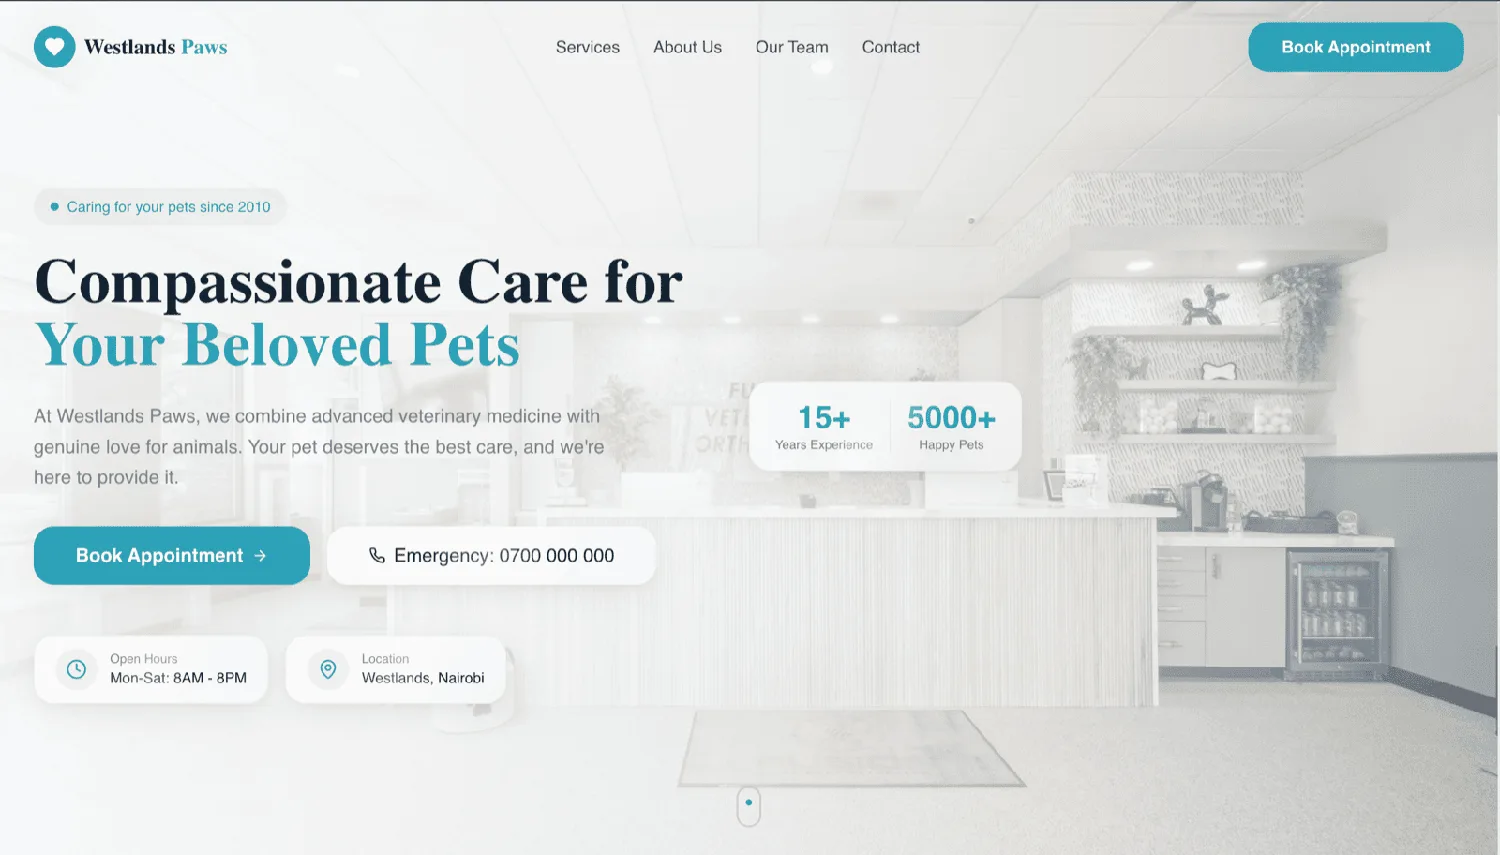
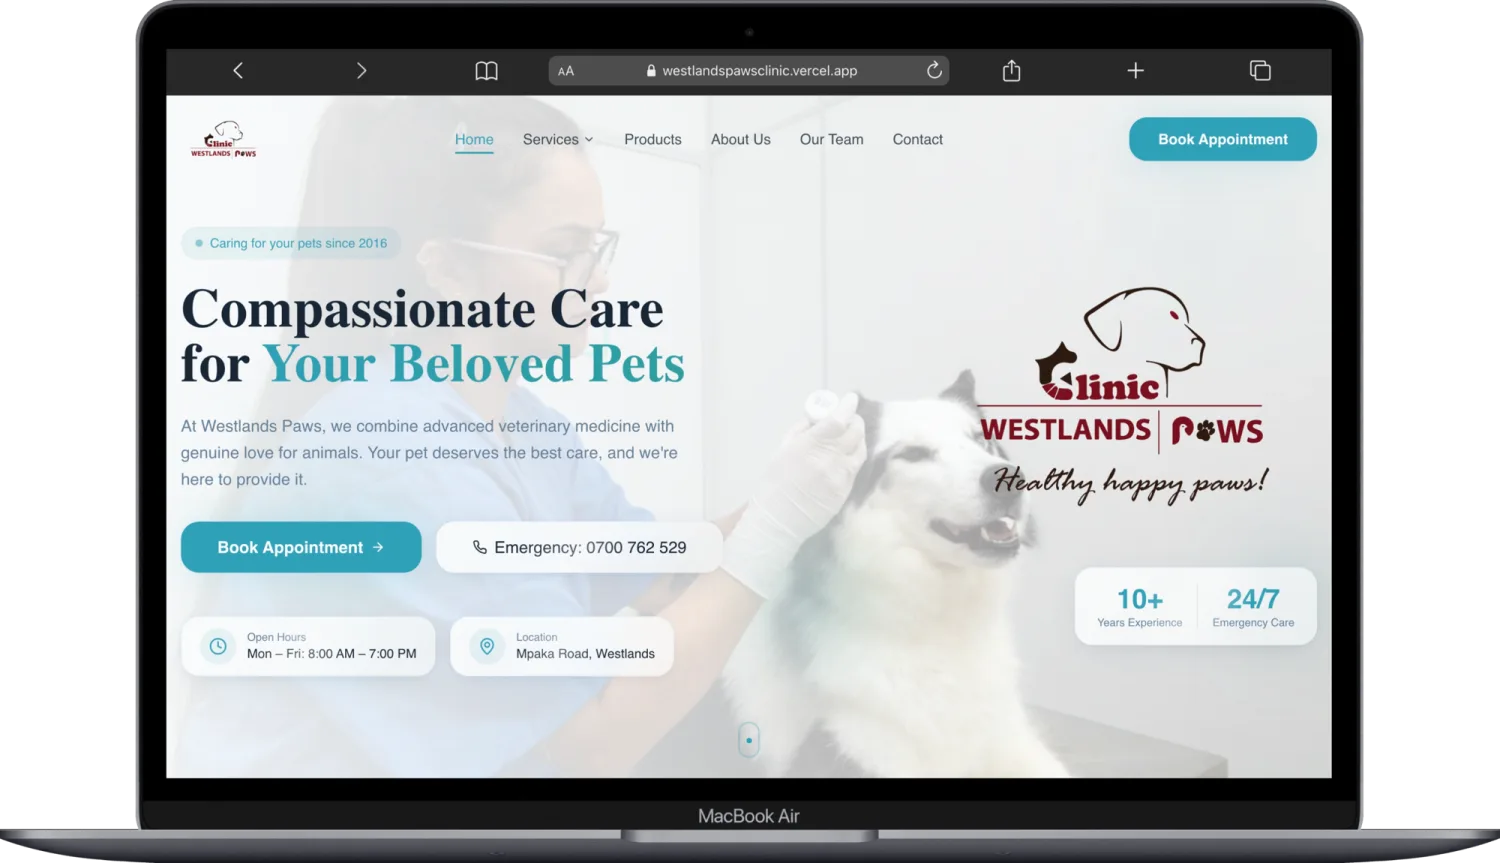
Projects: rebrand Crystal Vets to SanaPets, refresh Westlands Paws
Crystal Vets is now SanaPets Vet Clinic at sanapetsveterinaryclinic.com:
new name, owner, URL and five current screenshots (three mobile, two
desktop) replacing the three old ones. The existing icon was already the
mark the live site serves, so it is only renamed. Description rewritten
around what the site actually does — WhatsApp-backed booking, per-service
pages, filtered product shop with cart-to-WhatsApp ordering.

Westlands Paws Clinic gets four current screenshots in place of two, an
app icon from the site's own favicon, a url child whose name matches its
href, and a description covering the emergency-first homepage, the
indexed services page with KSh pricing, and the booking flow.

Claude-Session: https://claude.ai/code/session_01NRHmTXKmKDfSEnWzS8eXfZ

diff --git a/src/constants/index.js b/src/constants/index.js
@@ -122,7 +122,7 @@ const blogPosts = [
         date: "Aug 28, 2025",
         title: "The Ultimate Guide to Mastering Three.js for 3D Development",
         image: "/images/blog2.png",
-        link: "https://crystalvets.com/#services",
+        link: "https://www.sanapetsveterinaryclinic.com/services",
     },
     {
         id: 3,
@@ -562,10 +562,10 @@ const WORK_LOCATION = {
             ],
         },
 
-        // Westland Paws Clinic Project
+        // Westlands Paws Clinic Project
         {
             id: 8,
-            name: "Westland-Paws Clinic Website",
+            name: "Westlands Paws Clinic Website",
             icon: "/images/folder.png",
             kind: "folder",
             position: "top-185 left-6",
@@ -578,21 +578,21 @@ const WORK_LOCATION = {
                     fileType: "txt",
                     position: "top-8 left-20",
                     description: [
-                        "Westland Paws Clinic is a veterinary clinic that provides exceptional care for pets. ",
-                        "The website is designed to showcase their services, facilities, and team members, ",
-                        "while also providing easy access to contact information and appointment scheduling.",
-                        "It features a user-friendly interface, clear navigation, and high-quality images showcasing ",
-                        "the clinic's amenities."
+                        "Westlands Paws Clinic is a Nairobi veterinary practice on Mpaka Road, Westlands — caring for pets since 2016, with 24/7 emergency cover.",
+                        "The homepage leads with the two things an owner actually needs at that moment: a booking button and the emergency line, backed by opening hours and the clinic's location.",
+                        "Services live on one page with a sticky 'on this page' index — general checkups, vaccinations, parasite control, dental care, diagnosis & treatment, surgery, emergency care and grooming — each with indicative KSh pricing and a plain account of how the clinic approaches the work.",
+                        "Booking is a single form (owner, pet, pet type, phone, preferred date and time, reason for visit) confirmed over WhatsApp, alongside a what-to-expect panel and the emergency number for cases that cannot wait.",
+                        "Also covers a product shop, about, team profiles and contact. Built with React and deployed on Vercel; the desktop nav collapses to a mobile drawer with the same content intact.",
                     ],
                 },
                 {
                     id: 802,
-                    name: "westlands-paws.co.ke",
+                    name: "westlandspawsclinic.vercel.app",
                     icon: "/images/safari.png",
                     kind: "file",
                     fileType: "url",
                     href: "https://westlandspawsclinic.vercel.app/",
-                    position: "top-76 right-38",
+                    position: "top-4 right-20",
                 },
                 {
                     id: 803,
@@ -600,7 +600,7 @@ const WORK_LOCATION = {
                     icon: "/images/image.png",
                     kind: "file",
                     fileType: "img",
-                    position: "top-52 left-12",
+                    position: "top-44 left-16",
                     imageUrl: "/images/westlandspaws-1.webp",
                 },
                 {
@@ -609,8 +609,26 @@ const WORK_LOCATION = {
                     icon: "/images/image.png",
                     kind: "file",
                     fileType: "img",
-                    position: "top-24 right-16",
+                    position: "top-44 right-16",
                     imageUrl: "/images/westlandspaws-2.webp",
+                },
+                {
+                    id: 805,
+                    name: "westlandspaws-3.png",
+                    icon: "/images/image.png",
+                    kind: "file",
+                    fileType: "img",
+                    position: "top-72 left-16",
+                    imageUrl: "/images/westlandspaws-3.webp",
+                },
+                {
+                    id: 806,
+                    name: "westlandspaws-4.png",
+                    icon: "/images/image.png",
+                    kind: "file",
+                    fileType: "img",
+                    position: "top-72 right-16",
+                    imageUrl: "/images/westlandspaws-4.webp",
                 },
             ],
         },
@@ -746,61 +764,82 @@ const WORK_LOCATION = {
         },
 
 
-        // Crystal Vets Project
+        // SanaPets Vet Clinic Project
         {
             id: 11,
-            name: "Crystal Vets Website",
+            name: "SanaPets Vet Clinic Website",
             icon: "/images/folder.png",
             kind: "folder",
             position: "top-92 right-80",
             children: [
                 {
                     id: 1101,
-                    name: "Crystal Vets.txt",
+                    name: "SanaPets Vet Clinic.txt",
                     icon: "/images/txt.png",
                     kind: "file",
                     fileType: "txt",
                     position: "top-16 right-12",
                     description: [
-                        "Crystal Vets is a premier veterinary clinic dedicated to providing exceptional care for your",
-                        " beloved pets. Located in Nairobi, Kenya, we offer a wide range of services including wellness exams, vaccinations, surgical procedures, dental care, and emergency services. Our team of experienced veterinarians and compassionate staff are committed to ensuring the health and well-being of your furry family members. At Crystal Vets, we believe in building lasting relationships with our clients and their pets through personalized care and attention.",
+                        "SanaPets Vet Clinic is a Nairobi veterinary practice offering affordable, professional care for pets across the city and its environs.",
+                        "The site puts booking first: a WhatsApp-backed appointment form collects the owner's details alongside the pet's name, type and age, so an enquiry reaches the clinic ready to act on instead of as a bare phone call.",
+                        "Every service has its own page — dental check-ups, dental surgery, vaccinations, local and international travel paperwork, deworming, tick and flea control, and pet nutrition advice — each spelling out what the appointment covers and how long it takes.",
+                        "A filterable product shop (parasite control, supplements, cat care, identification) adds a cart that turns a selection into a single WhatsApp order, alongside a gallery, blog and contact section.",
+                        "Built as a responsive React site: the same content carries from a full desktop nav down to a mobile drawer with the service list nested inside it.",
                     ],
                 },
                 {
                     id: 1102,
-                    name: "crystalvets.com",
+                    name: "sanapetsveterinaryclinic.com",
                     icon: "/images/safari.png",
                     kind: "file",
                     fileType: "url",
-                    href: "https://crystalvets.com/",
+                    href: "https://www.sanapetsveterinaryclinic.com/",
                     position: "top-4 left-20",
                 },
                 {
                     id: 1103,
-                    name: "image-1.png",
+                    name: "sanapets-1.png",
                     icon: "/images/image.png",
                     kind: "file",
                     fileType: "img",
                     position: "top-44 left-16",
-                    imageUrl: "/images/cvets-1.webp",
+                    imageUrl: "/images/sanapets-1.webp",
                 },
                 {
                     id: 1104,
-                    name: "image-2.png",
+                    name: "sanapets-2.png",
                     icon: "/images/image.png",
                     kind: "file",
                     fileType: "img",
-                    position: "top-60 right-24",
-                    imageUrl: "/images/cvets-2.webp",
+                    position: "top-44 right-16",
+                    imageUrl: "/images/sanapets-2.webp",
                 },
                 {
                     id: 1105,
-                    name: "image-3.png",
+                    name: "sanapets-3.png",
                     icon: "/images/image.png",
                     kind: "file",
                     fileType: "img",
-                    position: "top-80 left-24",
-                    imageUrl: "/images/cvets-3.webp",
+                    position: "top-72 left-16",
+                    imageUrl: "/images/sanapets-3.webp",
+                },
+                {
+                    id: 1106,
+                    name: "sanapets-4.png",
+                    icon: "/images/image.png",
+                    kind: "file",
+                    fileType: "img",
+                    position: "top-72 right-16",
+                    imageUrl: "/images/sanapets-4.webp",
+                },
+                {
+                    id: 1107,
+                    name: "sanapets-5.png",
+                    icon: "/images/image.png",
+                    kind: "file",
+                    fileType: "img",
+                    position: "top-96 left-16",
+                    imageUrl: "/images/sanapets-5.webp",
                 },
             ],
         },
@@ -997,14 +1036,15 @@ const WORK_LOCATION2 = {
             ],
         },
 
-        // Westland Paws Clinic Project
+        // Westlands Paws Clinic Project
         {
             id: 8,
-            name: "Westland-Paws Clinic Website",
+            name: "Westlands Paws Clinic Website",
             icon: "/images/folder.png",
             kind: "folder",
             position: "top-85 left-5",
-            owner: "Westland Paws Clinic",
+            owner: "Westlands Paws Clinic",
+            appIcon: "/images/westlandspaws-icon.webp",
             desktop_home: true,
             project_type: "web_app",
             children: [
@@ -1016,21 +1056,21 @@ const WORK_LOCATION2 = {
                     fileType: "txt",
                     position: "top-8 left-20",
                     description: [
-                        "Westland Paws Clinic is a veterinary clinic that provides exceptional care for pets. ",
-                        "The website is designed to showcase their services, facilities, and team members, ",
-                        "while also providing easy access to contact information and appointment scheduling.",
-                        "It features a user-friendly interface, clear navigation, and high-quality images showcasing ",
-                        "the clinic's amenities."
+                        "Westlands Paws Clinic is a Nairobi veterinary practice on Mpaka Road, Westlands — caring for pets since 2016, with 24/7 emergency cover.",
+                        "The homepage leads with the two things an owner actually needs at that moment: a booking button and the emergency line, backed by opening hours and the clinic's location.",
+                        "Services live on one page with a sticky 'on this page' index — general checkups, vaccinations, parasite control, dental care, diagnosis & treatment, surgery, emergency care and grooming — each with indicative KSh pricing and a plain account of how the clinic approaches the work.",
+                        "Booking is a single form (owner, pet, pet type, phone, preferred date and time, reason for visit) confirmed over WhatsApp, alongside a what-to-expect panel and the emergency number for cases that cannot wait.",
+                        "Also covers a product shop, about, team profiles and contact. Built with React and deployed on Vercel; the desktop nav collapses to a mobile drawer with the same content intact.",
                     ],
                 },
                 {
                     id: 802,
-                    name: "westlands-paws.co.ke",
+                    name: "westlandspawsclinic.vercel.app",
                     icon: "/images/safari.png",
                     kind: "file",
                     fileType: "url",
                     href: "https://westlandspawsclinic.vercel.app/",
-                    position: "top-76 right-38",
+                    position: "top-4 right-20",
                 },
                 {
                     id: 803,
@@ -1038,7 +1078,7 @@ const WORK_LOCATION2 = {
                     icon: "/images/image.png",
                     kind: "file",
                     fileType: "img",
-                    position: "top-52 left-12",
+                    position: "top-44 left-16",
                     imageUrl: "/images/westlandspaws-1.webp",
                 },
                 {
@@ -1047,8 +1087,26 @@ const WORK_LOCATION2 = {
                     icon: "/images/image.png",
                     kind: "file",
                     fileType: "img",
-                    position: "top-24 right-16",
+                    position: "top-44 right-16",
                     imageUrl: "/images/westlandspaws-2.webp",
+                },
+                {
+                    id: 805,
+                    name: "westlandspaws-3.png",
+                    icon: "/images/image.png",
+                    kind: "file",
+                    fileType: "img",
+                    position: "top-72 left-16",
+                    imageUrl: "/images/westlandspaws-3.webp",
+                },
+                {
+                    id: 806,
+                    name: "westlandspaws-4.png",
+                    icon: "/images/image.png",
+                    kind: "file",
+                    fileType: "img",
+                    position: "top-72 right-16",
+                    imageUrl: "/images/westlandspaws-4.webp",
                 },
             ],
         },
@@ -1192,65 +1250,86 @@ const WORK_LOCATION2 = {
         },
 
 
-        // Crystal Vets Project
+        // SanaPets Vet Clinic Project
         {
             id: 11,
-            name: "Crystal Vets Website Project",
+            name: "SanaPets Vet Clinic Website Project",
             icon: "/images/folder.png",
             kind: "folder",
             position: "top-72 left-70",
-            owner: "Crystal Vets",
-            appIcon: "/images/crystalvets-icon.webp",
+            owner: "SanaPets Vet Clinic",
+            appIcon: "/images/sanapets-icon.webp",
             desktop_home: true,
             project_type: "web_app",
             children: [
                 {
                     id: 1101,
-                    name: "Crystal Vets.txt",
+                    name: "SanaPets Vet Clinic.txt",
                     icon: "/images/txt.png",
                     kind: "file",
                     fileType: "txt",
                     position: "top-16 right-12",
                     description: [
-                        "Crystal Vets is a premier veterinary clinic dedicated to providing exceptional care for your",
-                        " beloved pets. Located in Nairobi, Kenya, we offer a wide range of services including wellness exams, vaccinations, surgical procedures, dental care, and emergency services. Our team of experienced veterinarians and compassionate staff are committed to ensuring the health and well-being of your furry family members. At Crystal Vets, we believe in building lasting relationships with our clients and their pets through personalized care and attention.",
+                        "SanaPets Vet Clinic is a Nairobi veterinary practice offering affordable, professional care for pets across the city and its environs.",
+                        "The site puts booking first: a WhatsApp-backed appointment form collects the owner's details alongside the pet's name, type and age, so an enquiry reaches the clinic ready to act on instead of as a bare phone call.",
+                        "Every service has its own page — dental check-ups, dental surgery, vaccinations, local and international travel paperwork, deworming, tick and flea control, and pet nutrition advice — each spelling out what the appointment covers and how long it takes.",
+                        "A filterable product shop (parasite control, supplements, cat care, identification) adds a cart that turns a selection into a single WhatsApp order, alongside a gallery, blog and contact section.",
+                        "Built as a responsive React site: the same content carries from a full desktop nav down to a mobile drawer with the service list nested inside it.",
                     ],
                 },
                 {
                     id: 1102,
-                    name: "crystalvets.com",
+                    name: "sanapetsveterinaryclinic.com",
                     icon: "/images/safari.png",
                     kind: "file",
                     fileType: "url",
-                    href: "https://crystalvets.com/",
+                    href: "https://www.sanapetsveterinaryclinic.com/",
                     position: "top-4 left-20",
                 },
                 {
                     id: 1103,
-                    name: "image-1.png",
+                    name: "sanapets-1.png",
                     icon: "/images/image.png",
                     kind: "file",
                     fileType: "img",
                     position: "top-44 left-16",
-                    imageUrl: "/images/cvets-1.webp",
+                    imageUrl: "/images/sanapets-1.webp",
                 },
                 {
                     id: 1104,
-                    name: "image-2.png",
+                    name: "sanapets-2.png",
                     icon: "/images/image.png",
                     kind: "file",
                     fileType: "img",
-                    position: "top-60 right-24",
-                    imageUrl: "/images/cvets-2.webp",
+                    position: "top-44 right-16",
+                    imageUrl: "/images/sanapets-2.webp",
                 },
                 {
                     id: 1105,
-                    name: "image-3.png",
+                    name: "sanapets-3.png",
                     icon: "/images/image.png",
                     kind: "file",
                     fileType: "img",
-                    position: "top-80 left-24",
-                    imageUrl: "/images/cvets-3.webp",
+                    position: "top-72 left-16",
+                    imageUrl: "/images/sanapets-3.webp",
+                },
+                {
+                    id: 1106,
+                    name: "sanapets-4.png",
+                    icon: "/images/image.png",
+                    kind: "file",
+                    fileType: "img",
+                    position: "top-72 right-16",
+                    imageUrl: "/images/sanapets-4.webp",
+                },
+                {
+                    id: 1107,
+                    name: "sanapets-5.png",
+                    icon: "/images/image.png",
+                    kind: "file",
+                    fileType: "img",
+                    position: "top-96 left-16",
+                    imageUrl: "/images/sanapets-5.webp",
                 },
             ],
         },

diff --git a/src/ipados/HomeScreen.jsx b/src/ipados/HomeScreen.jsx
@@ -8,7 +8,7 @@ import {ClockWidget, WeatherWidget, FeaturedWidget} from '#ipados/Widgets.jsx'
 // flagship projects. Everything else flows onto page 2.
 const PAGE_ONE_IDS = [
     'about', 'articles', 'skills',
-    'project-12', 'project-11', 'project-9', // MossBets · Crystal Vets · WOAdvocates
+    'project-12', 'project-11', 'project-9', // MossBets · SanaPets · WOAdvocates
 ]
 const FEATURED_ID = 'project-12'
 

diff --git a/src/android/HomeScreen.jsx b/src/android/HomeScreen.jsx
@@ -8,7 +8,7 @@ import AppIcon from '#android/AppIcon.jsx'
 // Row 1 = three "intro" system apps; row 2 = three named project apps.
 const PAGE_ONE_IDS = [
     'about', 'articles', 'skills',
-    'project-12', 'project-11', 'project-9', // MossBets · Crystal Vets · WOAdvocates
+    'project-12', 'project-11', 'project-9', // MossBets · SanaPets · WOAdvocates
 ]
 
 const formatTime = (d) =>
